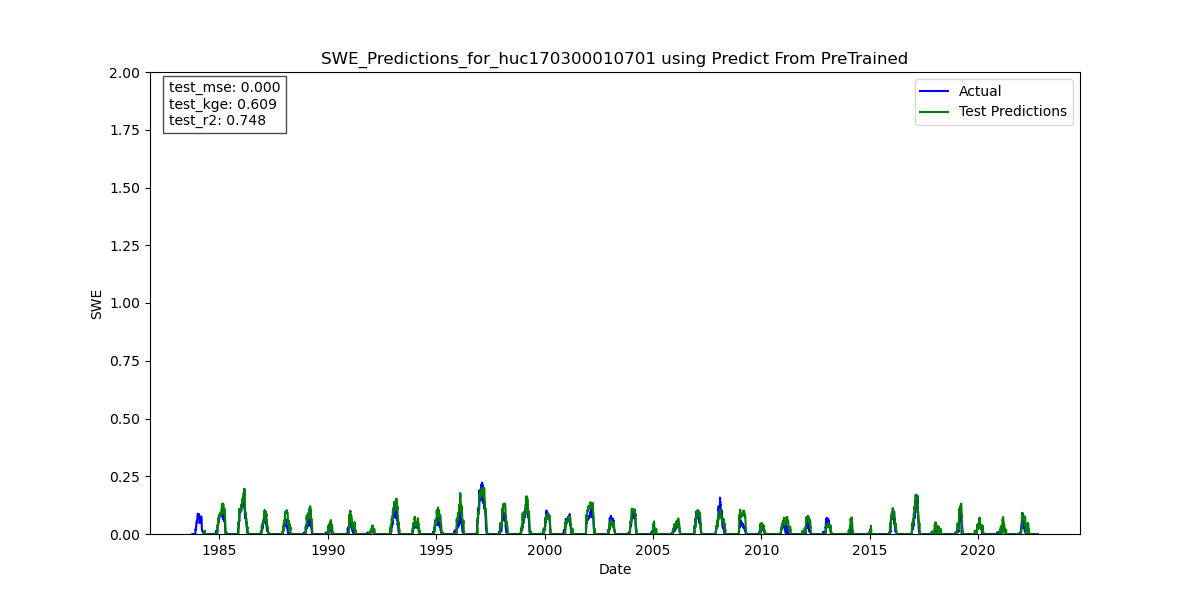
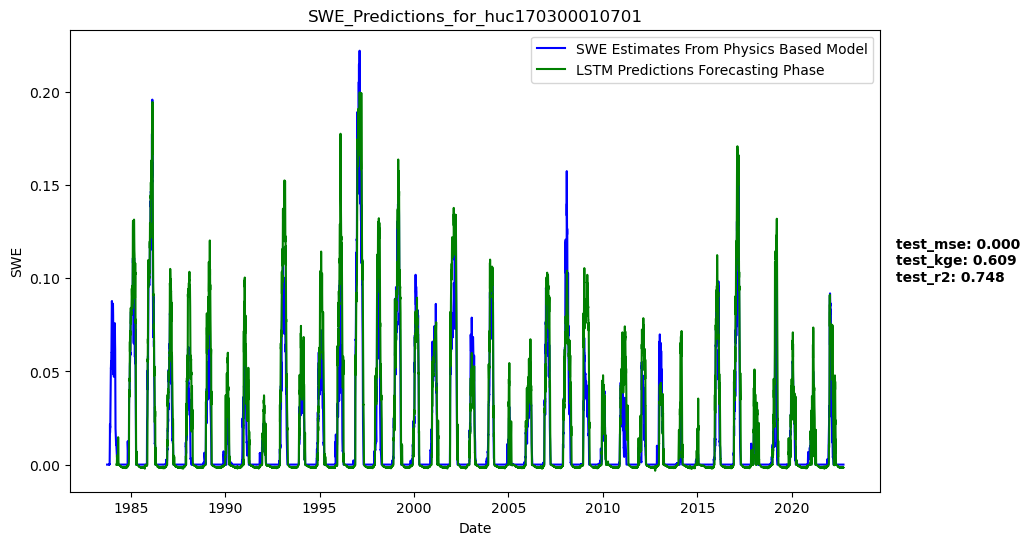
Add swe prediction plots last N years

diff --git a/src/snowML/Scripts/additional_plots.py b/src/snowML/Scripts/additional_plots.py
@@ -1,86 +1,115 @@
 """ Module to make poster-ready plots"""
 # pylint: disable=C0103
 
-from snowML.LSTM import LSTM_evaluate as eval
-from snowML.Scripts import additional_plots as plots
-import matplotlib.pyplot as plt
+import ast
 import mlflow
 import numpy as np
+from snowML.LSTM import LSTM_evaluate as eval
+from snowML.LSTM import LSTM_pre_process as pp
+import matplotlib.pyplot as plt
 
 
-def load_model(model_uri):
-    """
-    Load a PyTorch model from the given URI using MLflow.
-
-    Args:
-        model_uri (str): The URI of the model to load.
-
-    Returns:
-        torch.nn.Module: The loaded PyTorch model.
-    """
-    print(model_uri)
-    model = mlflow.pytorch.load_model(model_uri)
-    print(model)
-    return model
 
 def plot_basic(data, y_train_pred, y_test_pred, train_size, huc_id, 
-         lookback= 180, train_size_dim = 'huc', mlflow_on=False, metrics_dict=None):
+         params, mlflow_on=False, metrics_dict=None):
     """
     Plots the actual and predicted SWE (Snow Water Equivalent) values for 
     training and testing datasets.
+
+    Args:
+        data (pd.DataFrame): DataFrame containing the actual SWE values 
+            with a datetime index.
+        y_train_pred (np.ndarray): Array of predicted SWE for the training set.
+        y_test_pred (np.ndarray): Array of predicted SWE for the testing set.
+        train_size (int): The size of the training dataset.
+        huc_id (str): Hydrologic Unit Code identifier for the dataset.
+        params (dict): Dictionary containing parameters for the plot, including:
+            - "train_size_dimension" (str): Training size dim, e.g., "time".
+            - "lookback" (int): Number of time steps to consider for predictions.
+            - "expirement_name" (str): Name of experiment for labeling the plot.
+        metrics_dict (dict, optional): Dictionary of metrics to display on the plot. Defaults to None.
+
+    Returns:
+        None
     """
+
     train_plot = np.full_like(data['mean_swe'].values, np.nan, dtype=float)
     test_plot = np.full_like(data['mean_swe'].values, np.nan, dtype=float)
 
     # Convert tensor to numpy safely
-    if train_size_dim == "time":
-        train_plot[lookback:train_size] = y_train_pred.flatten()
-    test_plot[train_size + lookback : len(data)] = y_test_pred.flatten()
+    if params["train_size_dimension"] == "time":
+        train_plot[params["lookback"]:train_size] = y_train_pred.flatten()
+    test_plot[train_size + params["lookback"] : len(data)] = y_test_pred.flatten()
 
     # Plot
     plt.figure(figsize=(12, 6))
     #plt.ylim(0, 2)
-    plt.plot(data.index, data['mean_swe'], c='black', label='SWE Estimates From Physics Based Model')
+    plt.plot(data.index, data['mean_swe'], c='b', label='SWE Estimates From Physics Based Model')
     if params["train_size_dimension"] == "time":
-        plt.plot(data.index, train_plot, c='#E6E6FA', label='LSTM Estimates Training Phase')
+        plt.plot(data.index, train_plot, c='#E6E6FA', label='LSTM Predictions Training Phase')
+    plt.subplots_adjust(right=0.8)
     plt.plot(
-        data.index[train_size + lookback],
-        test_plot[train_size + lookback:],
+        data.index[train_size + params["lookback"]:],
+        test_plot[train_size + params["lookback"]:],
         c='g',
-        label='LSTM Predictions - Forecasting'
+        label='LSTM Predictions Forecasting Phase'
     )
     plt.legend()
     plt.xlabel('Date')
-    plt.ylabel('SWE')
-    ttle = f"SWE_Predictions_for_huc{huc_id}"
+    plt.ylabel('SWE (meters)')
+    mdl_name = params["expirement_name"]
+    ttle = f"SWE_Predictions_for_huc_{huc_id}"
     plt.title(ttle)
 
-    # Display metrics in the upper-right corner if metrics_dict is not None
     if metrics_dict is not None:
-        ax = plt.gca()
         metric_text = "\n".join([f"{key}: {value:.3f}" for key, value in metrics_dict.items()])
-    
-        ax.text(
-            0.02, 0.98, metric_text, transform=ax.transAxes, ha='left', va='top',
-            fontsize=10, color='black', bbox=dict(facecolor='white', alpha=0.7, edgecolor='black')
+        plt.gcf().text(
+            1.02, 0.5, metric_text, fontsize=10, color='black',
+            ha='left', va='center', weight='bold', transform=plt.gca().transAxes
         )
 
     if mlflow_on:
         mlflow.log_figure(plt.gcf(), ttle + ".png")
     else:
-        plt.savefig(f"docs/swe_prediction_plots/{ttle}.png")
+        plt.savefig(f"docs/swe_prediction_plots/{ttle}.png", bbox_inches="tight")
     plt.close()
 
 
-huc_to_plot = '170300010701'
-test_hucs = [huc_to_plot]
+def plot_last_n_years(n, data, y_train_pred, y_test_pred, train_size, huc_id, 
+         params, mlflow_on=False):
 
-model_uri = "s3://sues-test/298/51884b406ec545ec96763d9eefd38c36/artifacts/epoch27_model" 
-run_id = "d71b47a8db534a059578162b9a8808b7" 
-mlflow_tracking_uri = "arn:aws:sagemaker:us-west-2:677276086662:mlflow-tracking-server/dawgsML" 
+    train_plot = np.full_like(data['mean_swe'].values, np.nan, dtype=float)
+    test_plot = np.full_like(data['mean_swe'].values, np.nan, dtype=float)
 
-model_dawgs = load_model(model_uri)
+    # Convert tensor to numpy safely
+    if params["train_size_dimension"] == "time":
+        train_plot[params["lookback"]:train_size] = y_train_pred.flatten()
+    test_plot[train_size + params["lookback"] : len(data)] = y_test_pred.flatten()
 
-metric_dict, data, y_tr_pred, y_te_pred, y_tr_true, y_te_true, train_size_main= eval.eval_from_saved_model(model_dawgs,
-         df_dict_test, huc_to_plot)
-plot.plot_basic()
+    # Plot
+    plt.figure(figsize=(12, 6))
+    #plt.ylim(0, 2)
+    plt.plot(data.index[-n*365:], data['mean_swe'][-n*365:], c='b', label='SWE Estimates From Physics Based Model')
+    if params["train_size_dimension"] == "time":
+        plt.plot(data.index, train_plot, c='#E6E6FA', label='LSTM Predictions Training Phase')
+    plt.subplots_adjust(right=0.8)
+    plt.plot(
+        data.index[-n*365:],
+        test_plot[-n*365:],
+        c='g',
+        label='LSTM Predictions Forecasting Phase'
+    )
+    plt.legend()
+    plt.xlabel('Date')
+    plt.ylabel('SWE (meters)')
+    mdl_name = params["expirement_name"]
+    ttle = f"SWE_Predictions_for_huc_{huc_id}_last_{n}_years"
+    plt.title(ttle)
+
+   
+
+    if mlflow_on:
+        mlflow.log_figure(plt.gcf(), ttle + ".png")
+    else:
+        plt.savefig(f"docs/swe_prediction_plots/{ttle}.png", bbox_inches="tight")
+    plt.close()

diff --git a/src/snowML/LSTM/LSTM_evaluate.py b/src/snowML/LSTM/LSTM_evaluate.py
@@ -48,6 +48,12 @@ def get_params(tracking_uri, run_id):
     mlflow.set_tracking_uri(tracking_uri)
     run = mlflow.get_run(run_id)
     params = run.data.params
+      # reformat some lists that got converted to string literals
+    for key in ["var_list", "train_hucs", "val_hucs"]:
+        params[key] = ast.literal_eval(params[key])
+    # convert some strings back to int that we need for predict and plotting
+    for key in ['lookback', 'train_size_fraction']:
+        params[key] = int(params[key])
     return params
 
 
@@ -123,9 +129,9 @@ def eval_from_saved_model (model_dawgs, df_dict, huc, params):
         params["train_size_fraction"] = 0
         data, y_tr_pred, y_te_pred, y_tr_true, y_te_true, train_size_main = LSTM_train.predict(
             model_dawgs, df_dict, huc, params)
-        test_mse = LSTM_train.mean_squared_error(y_test_true, y_test_pred)
-        test_kge, _, _, _ = LSTM_train.kling_gupta_efficiency(y_test_true, y_test_pred)
-        test_r2 = r2_score(y_test_true, y_test_pred)
+        test_mse = LSTM_train.mean_squared_error(y_te_true, y_te_pred)
+        test_kge, _, _, _ = LSTM_train.kling_gupta_efficiency(y_te_true, y_te_pred)
+        test_r2 = r2_score(y_te_true, y_te_pred)
         metric_dict = dict(zip(["test_mse", "test_kge", "test_r2"], [test_mse, test_kge, test_r2]))
         LSTM_plot2.plot(data, y_tr_pred, y_te_pred, train_size_main,
             huc, params, metrics_dict = metric_dict)
@@ -143,12 +149,6 @@ def predict_from_pretrain(test_hucs, run_id, model_uri, mlflow_tracking_uri, mlf
     model_dawgs = load_model(model_uri)
     params = get_params(mlflow_tracking_uri, run_id)
 
-    # reformat some lists that got converted to string literals
-    for key in ["var_list", "train_hucs", "val_hucs"]:
-        params[key] = ast.literal_eval(params[key])
-    # convert some strings back to int that we need for predict and plotting
-    for key in ['lookback', 'train_size_fraction']:
-        params[key] = int(params[key])
 
     # assemble test data
     df_dict_test = assemble_df_dict(test_hucs, params["var_list"])
@@ -162,7 +162,7 @@ def predict_from_pretrain(test_hucs, run_id, model_uri, mlflow_tracking_uri, mlf
             mlflow.log_param("model_uri", model_uri)
 
             for huc in test_hucs:
-                metric_dict = eval_from_saved_model(model_dawgs, df_dict_test, huc, params)
+                metric_dict, _, _, _, _, _, _ = eval_from_saved_model(model_dawgs, df_dict_test, huc, params)
                 for met_nm, met in metric_dict.items():
                     mlflow.log_metric(f"{met_nm}_{str(huc)}", met)
                     print(f"{met_nm}: {met}")

diff --git a/src/snowML/Scripts/get_plot_data.py b/src/snowML/Scripts/get_plot_data.py
@@ -1,0 +1,23 @@
+import mlflow
+from snowML.LSTM import LSTM_evaluate as eval 
+
+# define constants 
+T_URI = "arn:aws:sagemaker:us-west-2:677276086662:mlflow-tracking-server/dawgsML" 
+M_URI = "s3://sues-test/298/51884b406ec545ec96763d9eefd38c36/artifacts/epoch27_model" 
+RUN_ID = "d71b47a8db534a059578162b9a8808b7" 
+#HUC = '170300010701'
+HUC = '170300010402'
+
+
+def get_plot_data(model_uri=M_URI, mlflow_tracking_uri = T_URI, run_id=RUN_ID, huc_to_plot=HUC):
+    test_hucs = [huc_to_plot]
+    model_dawgs = eval.load_model(model_uri)
+    params = eval.get_params(mlflow_tracking_uri, run_id)
+    df_dict_test = eval.assemble_df_dict(test_hucs, params["var_list"])
+    df_dict_test = eval.renorm(params["train_hucs"],  params["val_hucs"], test_hucs, params["var_list"])
+    metric_dict, data, y_tr_pred, y_te_pred, y_tr_true, y_te_true, train_size_main= eval.eval_from_saved_model(model_dawgs,
+         df_dict_test, huc_to_plot, params)
+    return data, y_tr_pred, y_te_pred, train_size_main, huc_to_plot, params, metric_dict
+
+
+
